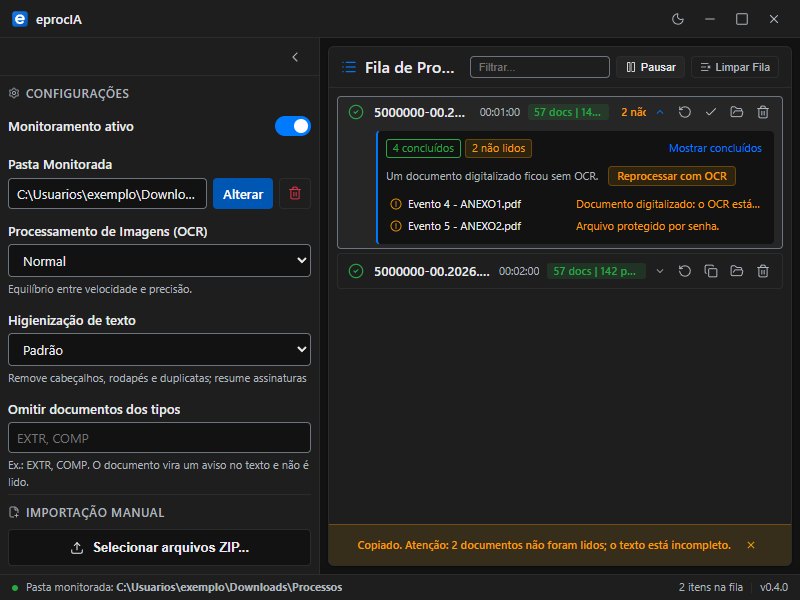
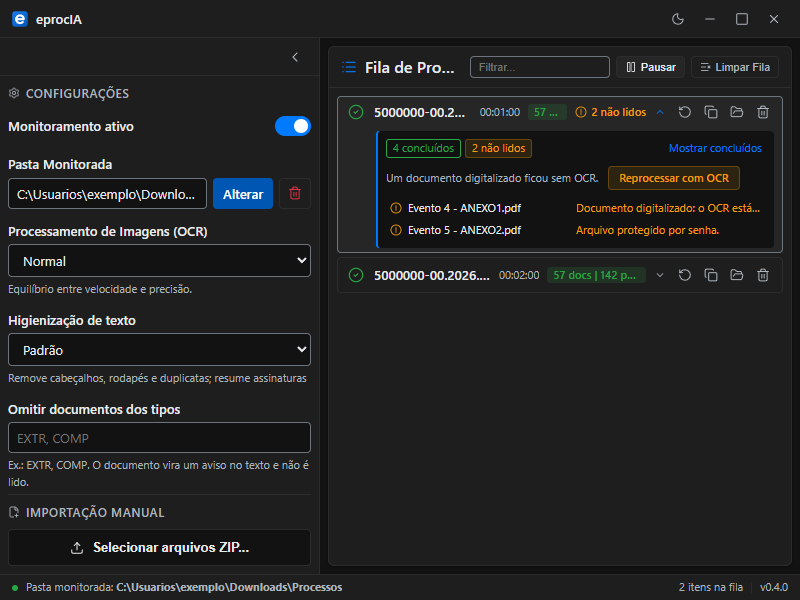
fix(ui): rótulo de não lidos inteiro em 800x600 e reprocessar com OCR sempre aplica
O rótulo "N não lidos" não encolhe mais (o nome e o selo cedem). O botão
"Reprocessar com OCR" remonta o formulário a cada clique (chave de geração,
decisão em lib/reprocessar.js), então vale com o painel já aberto e em
cliques repetidos. Ícone de não lido antes do de concluído, botão com alvo
maior, capturas de nao-lidos separadas (-atividade sem aviso, -copiado só
com aviso) e contagens do SKILL eprocia-visual atualizadas.

Claude-Session: https://claude.ai/code/session_01YKHKdzvxGBDhYx5JAnxJoZ

diff --git a/frontend/src/components/ProcessList.svelte b/frontend/src/components/ProcessList.svelte
@@ -38,6 +38,7 @@
   import { cubicOut } from 'svelte/easing';
   import { estadoItem, avisoFila } from '../lib/estado.js';
   import { criarAviso, duracaoMovimento, DUR_FAST, DUR_BASE } from '../lib/aviso.js';
+  import { aplicarReprocessarComOCR } from '../lib/reprocessar.js';
   import { rotuloNaoLidos, avisoCopiaNaoLidos, tituloNaoLidos } from '../lib/naoLidos.js';
   import { formatarHora, filtrarItens, alvoFoco, escolherAcao, criarMovimentoFila } from '../lib/fila.js';
 
@@ -105,6 +106,8 @@
   // OCR sugerido ao abrir o painel pelo botão "Reprocessar com OCR" (vale só
   // para esta abertura; a configuração global não muda).
   let ocrSugerido = {};
+  // Muda a cada clique em "Reprocessar com OCR": remonta o formulário.
+  let geracaoReprocessar = {};
   function alternarReprocessar(id) {
     reprocessarAberto = { ...reprocessarAberto, [id]: !reprocessarAberto[id] };
     const { [id]: _, ...resto } = ocrSugerido;
@@ -112,8 +115,14 @@
   }
 
   function reprocessarComOCR(id) {
-    ocrSugerido = { ...ocrSugerido, [id]: 'normal' };
-    reprocessarAberto = { ...reprocessarAberto, [id]: true };
+    const r = aplicarReprocessarComOCR({
+      aberto: !!reprocessarAberto[id],
+      ocr: ocrSugerido[id] ?? '',
+      geracao: geracaoReprocessar[id] ?? 0
+    });
+    ocrSugerido = { ...ocrSugerido, [id]: r.ocr };
+    geracaoReprocessar = { ...geracaoReprocessar, [id]: r.geracao };
+    reprocessarAberto = { ...reprocessarAberto, [id]: r.aberto };
   }
 
   async function confirmarReprocessar(item, ocr, limpeza) {
@@ -534,13 +543,15 @@
             {/if}
 
             {#if reprocessarAberto[item.id] && item.status !== 'pending' && item.status !== 'processing'}
-              <ReprocessarItem
-                id="reprocessar-{item.id}"
-                ocrInicial={ocrSugerido[item.id] || item.ocr_mode || config?.ocr_mode || 'normal'}
-                limpezaInicial={item.cleaning_level || config?.cleaning_level || 'standard'}
-                aoConfirmar={(ocr, limpeza) => confirmarReprocessar(item, ocr, limpeza)}
-                aoCancelar={() => alternarReprocessar(item.id)}
-              />
+              {#key geracaoReprocessar[item.id] ?? 0}
+                <ReprocessarItem
+                  id="reprocessar-{item.id}"
+                  ocrInicial={ocrSugerido[item.id] || item.ocr_mode || config?.ocr_mode || 'normal'}
+                  limpezaInicial={item.cleaning_level || config?.cleaning_level || 'standard'}
+                  aoConfirmar={(ocr, limpeza) => confirmarReprocessar(item, ocr, limpeza)}
+                  aoCancelar={() => alternarReprocessar(item.id)}
+                />
+              {/key}
             {/if}
           </div>
         {/each}
@@ -587,6 +598,11 @@
   }
   .aviso-erro.aviso-atencao .aviso-fechar:hover {
     background-color: var(--warning-line);
+  }
+  .details-row > .nao-lidos {
+    flex: none;
+    overflow: visible;
+    text-overflow: clip;
   }
   .nao-lidos {
     display: inline-flex;

diff --git a/frontend/src/components/AtividadeItem.svelte b/frontend/src/components/AtividadeItem.svelte
@@ -113,10 +113,10 @@
                 <span class="pulsa"><Icone icone={ScanText} tamanho={12} cor="var(--processing)" /></span>
               {:else if d.estado === 'lendo'}
                 <Icone icone={FileText} tamanho={12} cor="var(--accent)" />
-              {:else if d.estado === 'concluido'}
-                <Icone icone={CircleCheck} tamanho={12} cor="var(--success)" />
               {:else if naoLido(d)}
                 <Icone icone={CircleAlert} tamanho={12} cor="var(--warning)" />
+              {:else if d.estado === 'concluido'}
+                <Icone icone={CircleCheck} tamanho={12} cor="var(--success)" />
               {:else if d.estado === 'erro'}
                 <Icone icone={CircleAlert} tamanho={12} cor="var(--error)" />
               {:else}
@@ -262,7 +262,8 @@
   }
 
   .btn-ocr {
-    padding: 1px 8px;
+    min-height: 24px;
+    padding: 3px 10px;
     border-radius: 4px;
     border: 1px solid var(--warning-line);
     background-color: var(--warning-soft);

diff --git a/frontend/src/lib/reprocessar.js b/frontend/src/lib/reprocessar.js
@@ -1,0 +1,11 @@
+// Estado do painel de reprocessar de uma linha: aberto, OCR sugerido ('' =
+// o valor do item/config) e geração. O ReprocessarItem lê o OCR inicial só
+// ao ser criado; a geração entra como chave ({#key}) para remontá-lo.
+export const ESTADO_REPROCESSAR_INICIAL = Object.freeze({ aberto: false, ocr: '', geracao: 0 });
+
+// Clique em "Reprocessar com OCR": sempre painel aberto, OCR em 'normal',
+// qualquer que seja o estado anterior (fechado, aberto, ou já remontado antes
+// e com o select trocado pelo usuário).
+export function aplicarReprocessarComOCR(estado) {
+  return { aberto: true, ocr: 'normal', geracao: (estado?.geracao ?? 0) + 1 };
+}

diff --git a/.claude/skills/eprocia-visual/SKILL.md b/.claude/skills/eprocia-visual/SKILL.md
@@ -17,7 +17,7 @@ node scripts/visual/capturar.mjs --saida <dir> --rapido               # 1024x768
 node scripts/visual/capturar.mjs --saida <dir> --estados fila,erro    # só alguns estados
 ```
 
-- Matriz completa: 800×600, 1024×768, 1440×900, 1920×1080 × escuro/claro × `vazio`, `fila`, `processando`, `erro`, `configuracoes` = 40 capturas, mais 3 por tamanho e tema no estado `processando`: `-divisor-minimo` (arrastado até x=20), `-divisor-maximo` (até a borda direita) e `-recolhido` (painel recolhido), mais `-atividade` (painel de atividade do item em processamento aberto) em `processando` e `-reprocessar` (formulário de reprocessar aberto) em `fila`. Total: 80. A atividade fictícia fica em `ESTADOS.<estado>.atividades` (por id do item) e é servida pelo stub de `GetQueueActivity`.
+- Matriz completa: 800×600, 1024×768, 1440×900, 1920×1080 × escuro/claro × `vazio`, `fila`, `processando`, `erro`, `configuracoes`, `nao-lidos` = 48 capturas, mais 3 por tamanho e tema no estado `processando`: `-divisor-minimo` (arrastado até x=20), `-divisor-maximo` (até a borda direita) e `-recolhido` (painel recolhido), mais `-atividade` (painel de atividade do item em processamento aberto) em `processando` e `-reprocessar` (formulário de reprocessar aberto) em `fila`, e `-atividade` (painel, sem o aviso) e `-copiado` (faixa de aviso depois de copiar) em `nao-lidos`. Total: 104 (13 com `--rapido`). A atividade fictícia fica em `ESTADOS.<estado>.atividades` (por id do item) e é servida pelo stub de `GetQueueActivity`.
 - Nome: `<L>x<A>-<tema>-<estado>[-variação].png`.
 - O Playwright `1.63.0` é instalado uma vez em `%LOCALAPPDATA%\eprocia-harness\` (fora do `package.json`) e usa o Chrome instalado (`channel: 'chrome'`), com o Chromium do Playwright como reserva.
 - As capturas usam `reducedMotion: 'reduce'` para não pegar animações no meio.
@@ -38,4 +38,4 @@ O Playwright renderiza no Chromium, não no WebView2 da janela frameless. Bordas
 
 ## Validação desta skill
 
-`node --test scripts/visual/estados.test.mjs` passa, e `node scripts/visual/capturar.mjs --saida <scratchpad> --rapido` termina com `[visual] 8 capturas em ...`.
+`node --test scripts/visual/estados.test.mjs` passa, e `node scripts/visual/capturar.mjs --saida <scratchpad> --rapido` termina com `[visual] 13 capturas em ...`.
